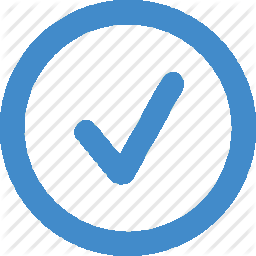
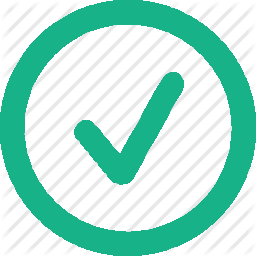
add consistency to 'read' checkmarks

diff --git a/app/styles/app.less b/app/styles/app.less
@@ -149,7 +149,7 @@ header .nav_link {
   margin: 4px;
 }
 
-@cape_header_color: #AC6A2D;
+@cape_header_color: #17b287;
 
 .cap_entry .updated {
   color: @cape_header_color;
@@ -166,12 +166,13 @@ header .nav_link {
 
 .cape_header {
   color: @cape_header_color;
+  cursor: pointer;
   font-size: 1rem;
 }
 
 .minus, .plus, .checkmark {
   cursor: pointer;
-  width: 1.3rem;
+  width: 1.5rem;
 }
 
 .cap_entry .content {
